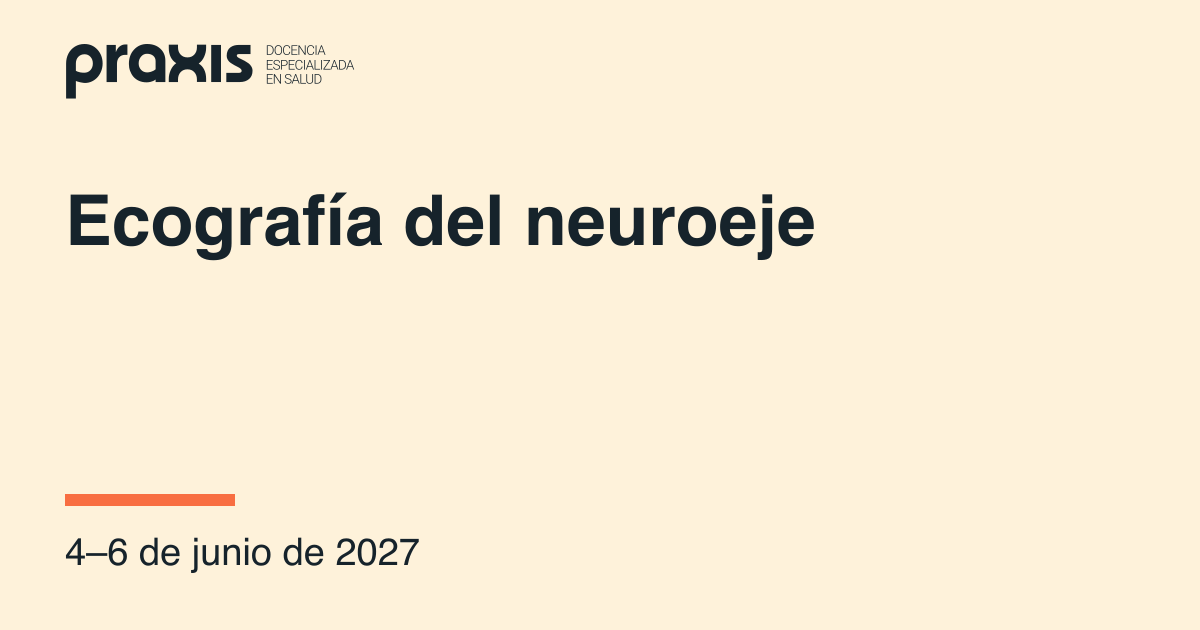
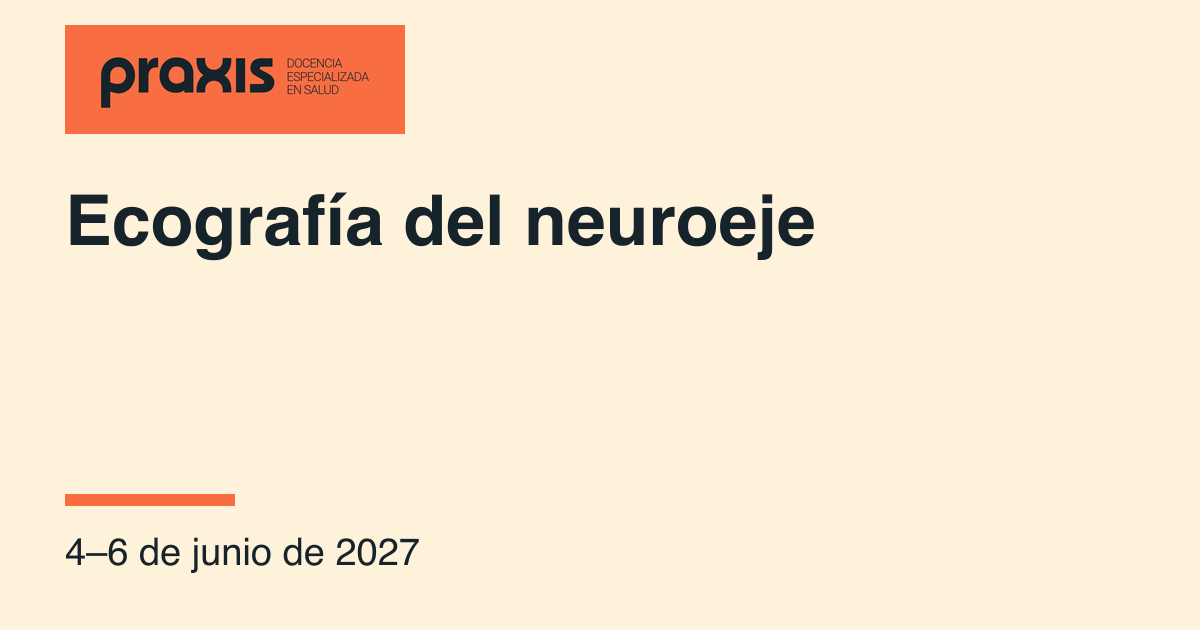
Mostrar el PNG corporativo oficial en cabecera, pie y vistas compartidas

Changed region(s): [[0.0308, 0.0302, 0.3392, 0.2111]]

diff --git a/src/layouts/style.css b/src/layouts/style.css
@@ -12,7 +12,8 @@ a:focus-visible,summary:focus-visible {outline:3px solid #1678bd;outline-offset:
 header,footer,main>section {padding-inline:var(--margin)}
 header,footer,.wide-nav,.section-head,.feature-name,.button {display:flex;align-items:center;justify-content:space-between}
 header {position:relative;z-index:2;padding-block:17px;background:var(--paper);border-bottom:1px solid #16232b30}
-.brand img,footer img {display:block;max-width:100%;height:auto}
+.corporate-logo {display:block;width:220px;height:64px;object-fit:cover;object-position:50% 53%;max-width:100%}
+footer .corporate-logo {width:190px;height:58px}
 .wide-nav {gap:clamp(18px,3vw,48px)}
 nav a,summary,.back,.download,.guide a {display:inline-flex;align-items:center;min-height:44px;font-weight:700}
 nav a {text-decoration:none}
@@ -78,7 +79,7 @@ footer a {padding-block:.35rem}
 .program :is(ul,ol) {padding-inline-start:1.4em}
 @media(max-width:850px) {
   header {padding-block:9px}
-  .brand img {width:174px}
+  .brand .corporate-logo {width:176px;height:52px}
   .wide-nav {display:none}
   .mobile-menu {display:block}
   .mobile-menu summary {gap:.6em;list-style:none;padding-inline:.4rem}
